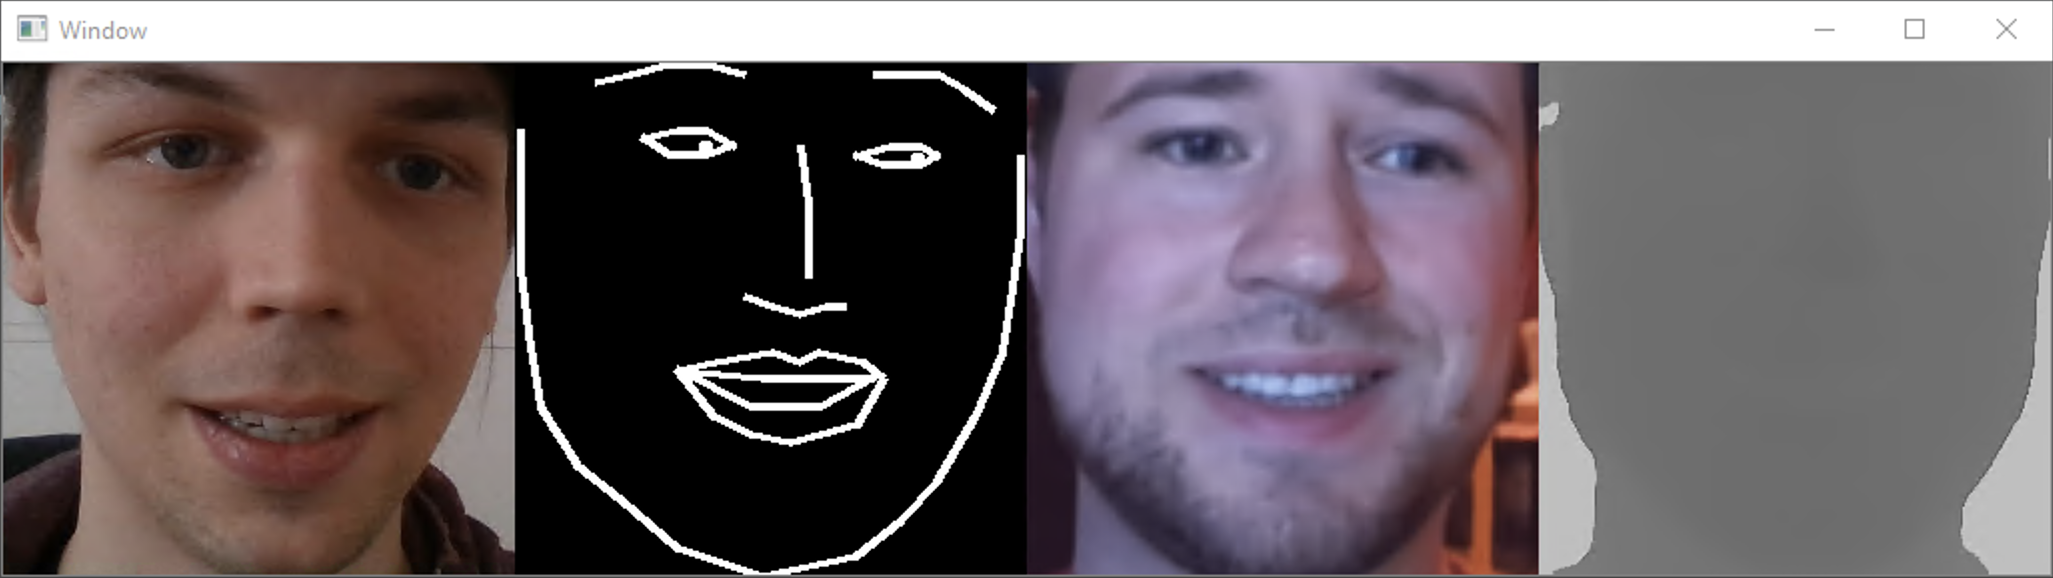
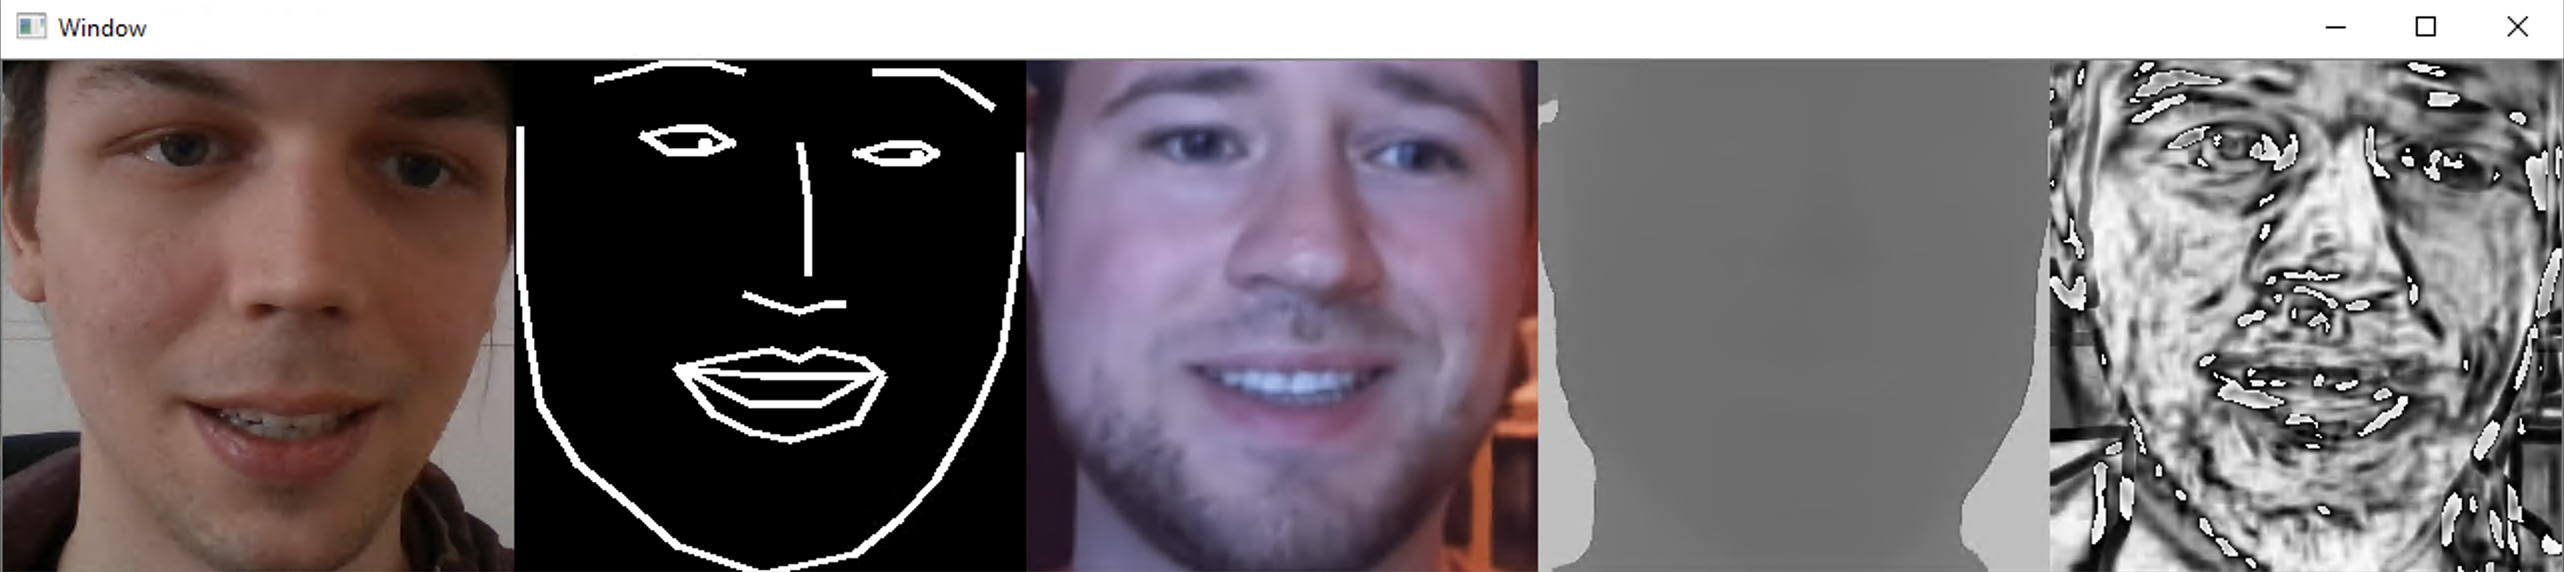
add structural similarity to README.md

diff --git a/README.md b/README.md
@@ -41,10 +41,12 @@ Run `train.py`.
 
 Run `test.py` in order to test the model with a webcam. The window that opens shows: 
 
-| webcam-input | facial landmarks | synthesized RGB image | synthesized depthmap |
-|---|---|---|---|
+| webcam-input | facial landmarks | synthesized RGB image | synthesized depthmap | structural similarity *| 
+|---|---|---|---|---|
 
 ![RGBD-Face-Avatar-GAN](Docu/Images/RGBD-Face-Avatar-GAN.png)
+
+*(useful if a person controls their own avatar)  
 
 ## Demo
 
